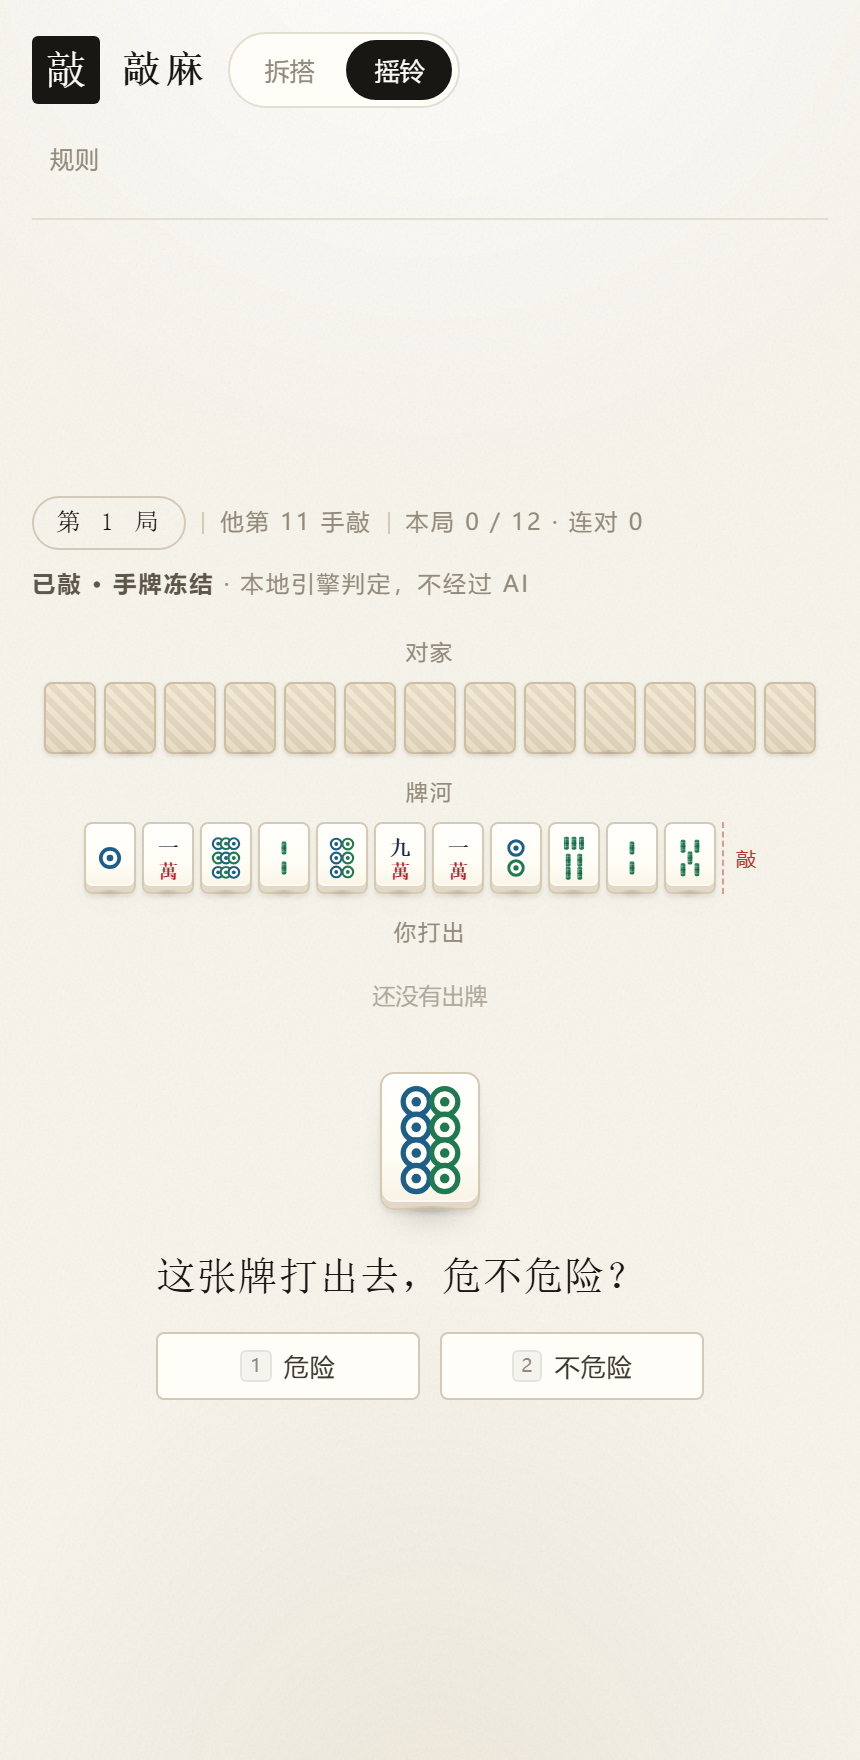
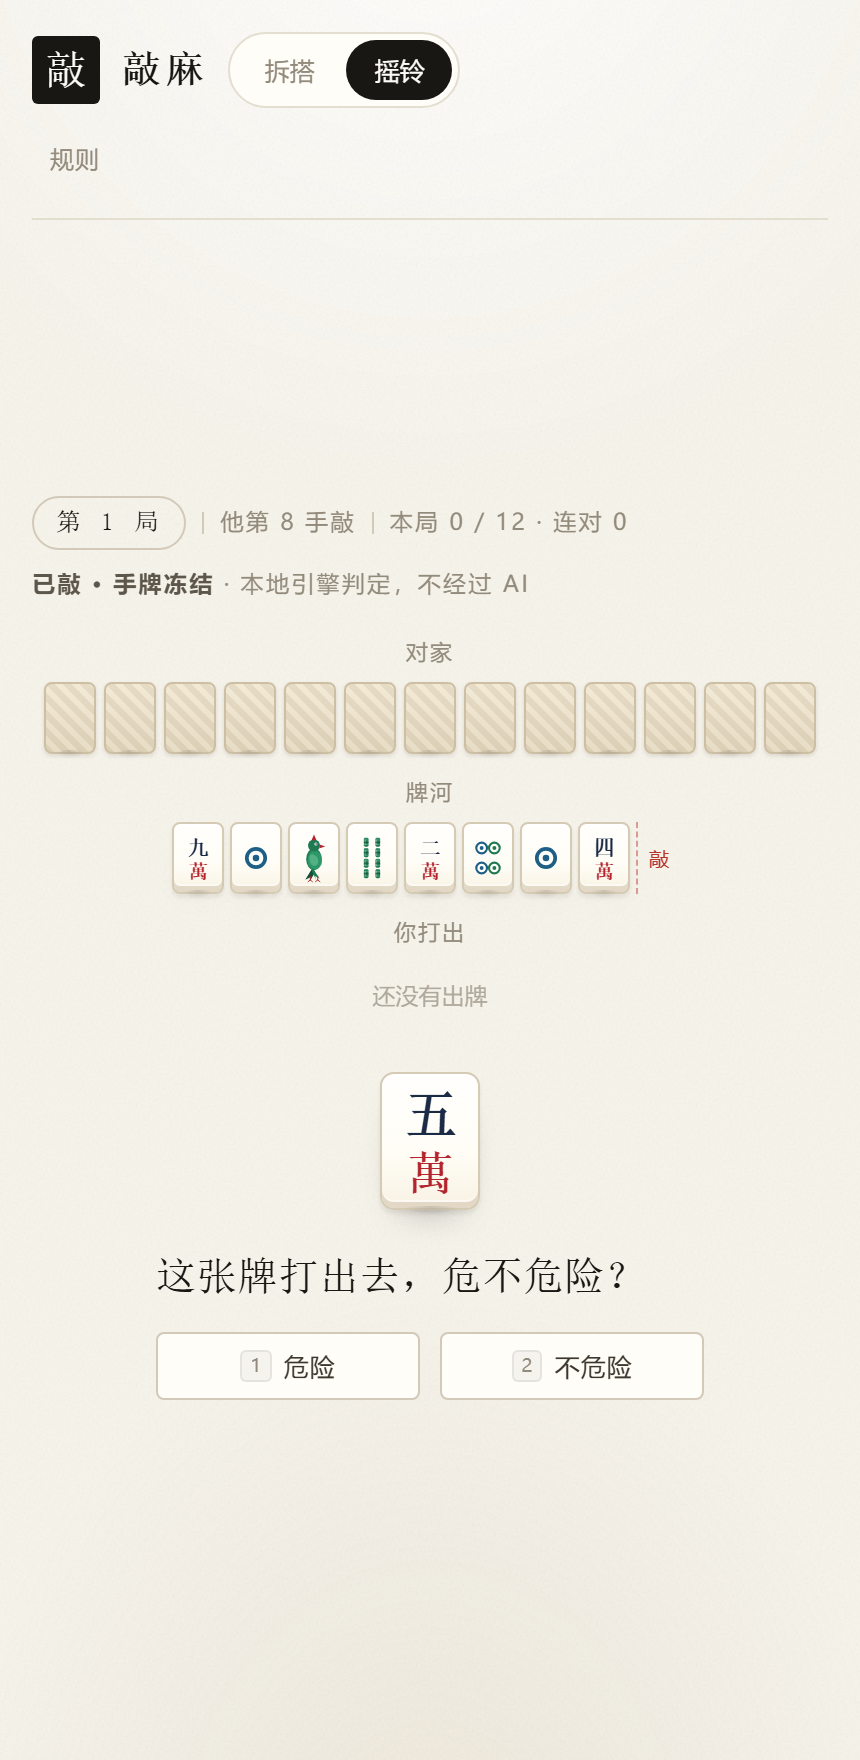
摇铃：对手与自己的牌统一尺寸（桌面 42×58 / 窄屏 26×36），对家牌一并放大

diff --git a/public/style.css b/public/style.css
@@ -1154,6 +1154,8 @@ kbd {
 
 /* ---------- 摇铃模式 ---------- */
 .read-area {
+  --rt: 42px;
+  --rth: 58px;
   display: flex;
   flex-direction: column;
   justify-content: center;
@@ -1181,8 +1183,8 @@ kbd {
 .opp-tag.knocked { color: var(--red); font-weight: 600; }
 
 .tile.back {
-  width: 34px;
-  height: 47px;
+  width: var(--rt);
+  height: var(--rth);
   border-radius: 4px;
   border: 1px solid #cdbfa4;
   background:
@@ -1191,8 +1193,8 @@ kbd {
   box-shadow: 0 1px 2px rgba(80, 62, 36, .14);
 }
 .tile.sm {
-  width: 34px;
-  height: 47px;
+  width: var(--rt);
+  height: var(--rth);
   padding: 2px;
   border-radius: 4px;
 }
@@ -1203,7 +1205,7 @@ kbd {
   flex-wrap: wrap;
   justify-content: center;
   gap: 4px;
-  min-height: 47px;
+  min-height: var(--rth);
   align-items: center;
 }
 .opp-river:empty::before, .my-river:empty::before {
@@ -1213,7 +1215,7 @@ kbd {
   opacity: .7;
 }
 .my-river { padding: 4px 2px 0; }
-.my-river .tile { width: 42px; height: 58px; border-radius: 5px; }
+.my-river .tile { width: var(--rt); height: var(--rth); border-radius: 5px; }
 .my-river .tile svg { padding: 5%; }
 .my-panel { display: flex; flex-direction: column; gap: 10px; }
 .my-panel .hand-wrap { padding: 26px 0 4px; }
@@ -1321,8 +1323,7 @@ body.mode-read #replayBtn, body.mode-read #newBtn { display: none; }
 }
 
 @media (max-width: 560px) {
-  .tile.back, .tile.sm { width: 26px; height: 36px; }
-  .my-river .tile { width: 34px; height: 47px; }
+  .read-area { --rt: 26px; --rth: 36px; }
   .opp-hand { gap: 4px; }
-  .opp-river, .my-river { gap: 3px; min-height: 36px; }
+  .opp-river, .my-river { gap: 3px; }
 }
